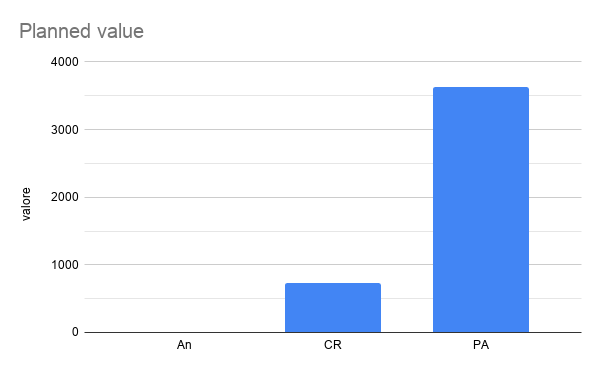
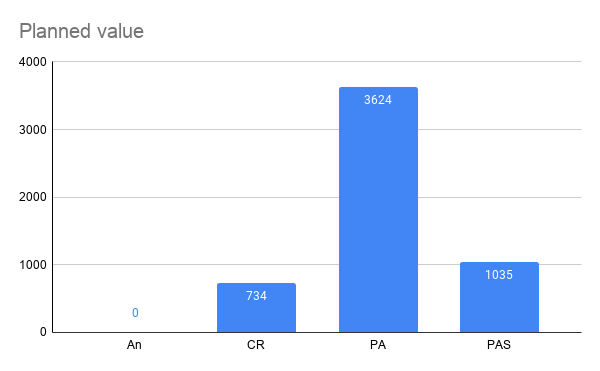
aggiunta divisione tra PA e PA a sportello

diff --git a/piano-di-qualifica/source/sections/resoconti_verifica.tex b/piano-di-qualifica/source/sections/resoconti_verifica.tex
@@ -1,7 +1,7 @@
-
+\newpage
 \section{Resoconti di verifica ed esiti delle revisioni}
 
-In questa sezione vengono mostrati i valori delle metriche calcolate a termine del periodo di revisione dei requisiti. Saranno mostrati sia i valori che rientrano nel range prestabilito sia quelli che non rientrano, nel secondo caso verranno segnalati come problemi nella parte finale della sezione.
+In questa sezione vengono mostrati i valori delle metriche calcolate a termine del periodo di progettazione architetturale. Saranno mostrati sia i valori che rientrano nel range prestabilito sia quelli che non rientrano, nel secondo caso verranno segnalati come problemi nelle conclusioni che sranno divise per fasi.
 
 \subsection{Riassunto delle attività di verifica}
 Durante il periodo di analisi tutta la documentazione da presentare in ingresso alla revisione dei requisiti è stata sottoposta ad un'analisi meticolosa della struttura del documento, della chiarezza e degli errori ortografici. La verifica di ogni documento è stata svolta da 2 componenti del gruppo per assicurare il minor numero di errori possibili.
@@ -53,21 +53,31 @@ Per ogni documento stilato è stato calcolato l'indice di Gulpease\glo{} in due 
 
 Per quanto riguarda gli errori ortografici, oltre alla revisione fatta dai membri del gruppo, si è utilizzato anche lo spellchecker di Overleaf.
 \newpage
-\subsection{Earned value - EV}
 
-\begin{longtabu} to \textwidth {| X[0.1,c m] | X[0.1,c m] | X[0.1,c m] | X[0.1,c m]|}
+\subsection{Metriche di pianificazione}
+Le metriche di pianificazione che mostrano il rispettaer dei costi e dei tempi sono stati calcolati in questa versione del documento in 4 gruppi denotati dalle seguenti sigle:
+\begin{itemize}
+    \item \textbf{An}: Periodo di analisi, ovvero dal 26-11-2020 al 10-01-2021
+    \item \textbf{CC}: periodo di consolidamento dei requisiti, ovvero dal 12-01-2021 al 18-01-2021
+    \item \textbf{PA}: Progettazione architetturale, ovvero dal 19-01-2021 al 01-03-2021, che rappresenta la data progettata per la consegna
+    \item \textbf{PAS}: Progettazione architetturale con consegna a sportell0, ovvero dal 02-03-2021 al 09-03-2021, che rappresenta la data spostata con consegna il 10 marzo
+\end{itemize}
+
+\subsubsection{Earned value - EV}
+
+\begin{longtabu} to \textwidth {| X[0.1,c m] | X[0.1,c m] |}
     \hline
     \rowcolor{header}
     \textbf{Fase} &
-    \textbf{Valore effettivo} & 
-    \textbf{Valore sufficiente} & 
-    \textbf{Valore ottimo} \\
+    \textbf{Valore effettivo} \\
     \hline
-    RR & - & - & - \\ 
+    An & -  \\ 
     \hline
-    CR & 734 & X & X \\
+    CR & 734 \\
     \hline
-    PA & 2588 & x & x \\
+    PA & 2588 \\
+    \hline
+    PAS & 1035 \\
     \hline 
     \end{longtabu}
 
@@ -77,21 +87,21 @@ Per quanto riguarda gli errori ortografici, oltre alla revisione fatta dai membr
         \caption{Grafico dei valori dell'Earned value}
     \end{figure}
 
-\subsection{Planned value - PV}
+\subsubsection{Planned value - PV}
 
-\begin{longtabu} to \textwidth {| X[0.1,c m] | X[0.1,c m] | X[0.1,c m] | X[0.1,c m]|}
+\begin{longtabu} to \textwidth {| X[0.1,c m] | X[0.1,c m] | }
     \hline
     \rowcolor{header}
     \textbf{Fase} &
-    \textbf{Valore effettivo} & 
-    \textbf{Valore sufficiente} & 
-    \textbf{Valore ottimo} \\
+    \textbf{Valore effettivo} \\
     \hline
-    RR & - & - & - \\ 
+    RR & - \\
     \hline
-    CR & 734 & x & x \\
+    CR & 734 \\
     \hline
-    PA & 3624 & x & x \\
+    PA & 3624 \\
+    \hline
+    PAS & 1035 \\
     \hline 
     \end{longtabu}
 
@@ -101,9 +111,9 @@ Per quanto riguarda gli errori ortografici, oltre alla revisione fatta dai membr
         \caption{Grafico dei valori del Planned value}
     \end{figure}
 
-\subsection{Actual cost - AC}
+\subsubsection{Actual cost - AC}
 
-\begin{longtabu} to \textwidth {| X[0.1,c m] | X[0.1,c m] | X[0.1,c m] | X[0.1,c m]|}
+\begin{longtabu} to \textwidth {| X[0.1,c m] | X[0.1,c m] | X[0.1,c m] | X[0.1,c m] |}
     \hline
     \rowcolor{header}
     \textbf{Fase} &
@@ -113,10 +123,12 @@ Per quanto riguarda gli errori ortografici, oltre alla revisione fatta dai membr
     \hline
     An & - & - & - \\
     \hline
-    CR & 650.66 & x & x \\ 
+    CR & 650.66 & Si & Si \\ 
     \hline    
-    PA & 3439,23 & x & x \\
+    PA & 3439,23 & No & No \\
     \hline 
+    PAS & 966 & Si & Si \\
+    \hline
     \end{longtabu}
 
     \begin{figure}[H]
@@ -125,7 +137,7 @@ Per quanto riguarda gli errori ortografici, oltre alla revisione fatta dai membr
         \caption{Grafico dei valori dell'Actual cost}
     \end{figure}
 
-\subsection{Schedule variance - SV}
+\subsubsection{Schedule variance - SV}
 
 \begin{longtabu} to \textwidth {| X[0.1,c m] | X[0.1,c m] | X[0.1,c m] | X[0.1,c m]|}
     \hline
@@ -137,10 +149,12 @@ Per quanto riguarda gli errori ortografici, oltre alla revisione fatta dai membr
     \hline
     An & - & - & - \\
     \hline
-    CR & 0 & x & x \\ 
+    CR & 0 & Si & Si \\ 
     \hline
-    TB & -1035 & x & x \\
+    PA & -1035 & No & No \\
     \hline 
+    PAS & 0 & Si & Si \\
+    \hline
     \end{longtabu}
 
     \begin{figure}[H]
@@ -150,7 +164,7 @@ Per quanto riguarda gli errori ortografici, oltre alla revisione fatta dai membr
     \end{figure}
 
 
-\subsection{Cost variance - CV}
+\subsubsection{Cost variance - CV}
 \begin{longtabu} to \textwidth {| X[0.1,c m] | X[0.1,c m] | X[0.1,c m] | X[0.1,c m]|}
     \hline
     \rowcolor{header}
@@ -161,10 +175,12 @@ Per quanto riguarda gli errori ortografici, oltre alla revisione fatta dai membr
     \hline
     Av & - & - & - \\ 
     \hline
-    CR & 84 & x & x \\
+    CR & 84 & Si & No \\
     \hline
-    TB & -851 & x & x \\
+    PA & -851 & No & No \\
     \hline 
+    PAS & 69 & Si & No \\
+    \hline
     \end{longtabu}
 
     \begin{figure}[H]
